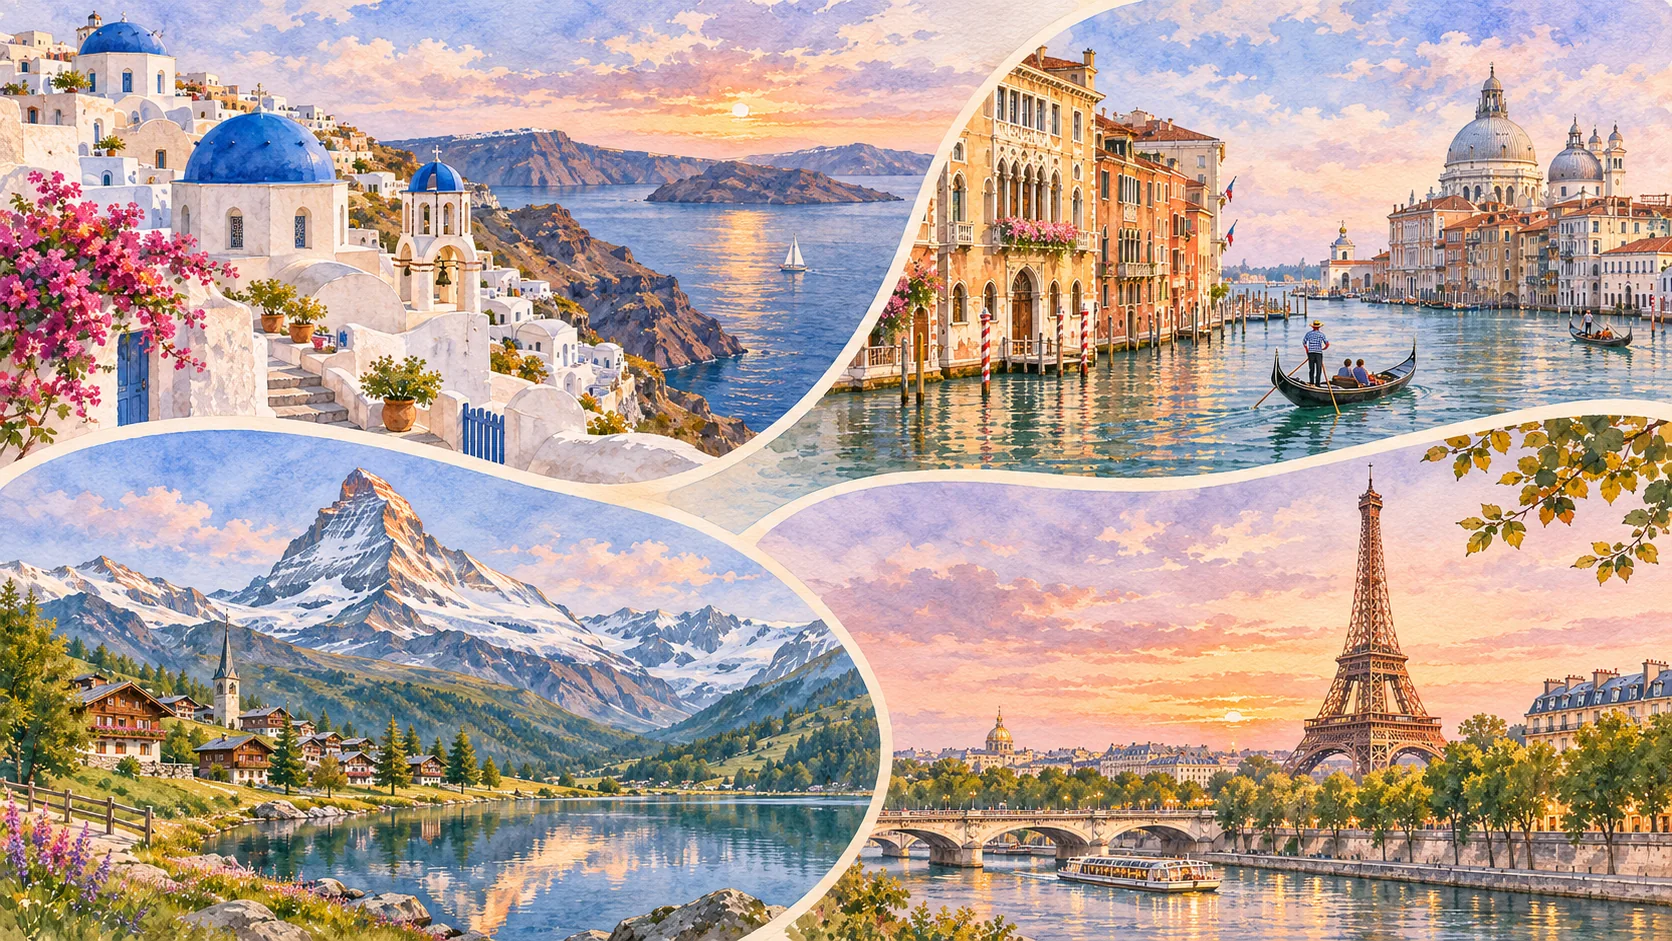
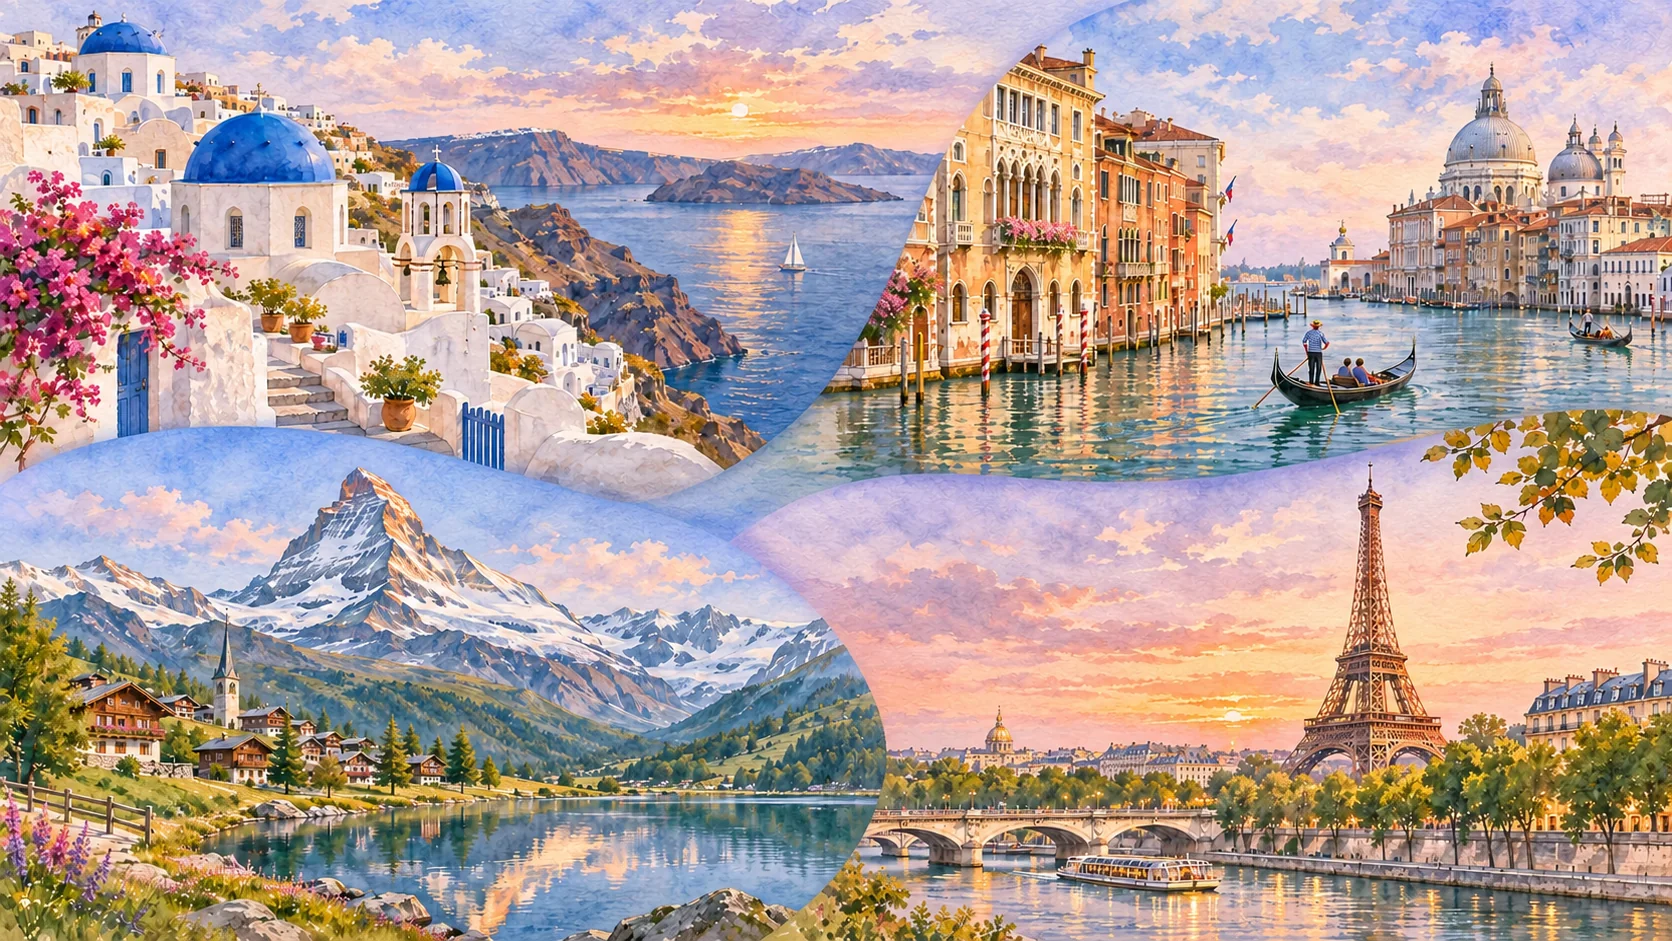
Soften boundaries in the seven homepage regional hero images (#2066)

diff --git a/assets/js/top.js b/assets/js/top.js
@@ -70,13 +70,13 @@ let themeSets = {};
 // Homepage-only regional montages built from existing approved Country images.
 // First entry is the dominant center; the following four appear around it.
 const heroFiles = [
-  { id: 'asia', labelJa: 'アジア', labelEn: 'ASIA', description: '日本・富士山、インド・タージ・マハル、ベトナム・ハロン湾、ヨルダン・ペトラ', image: 'assets/images/top/regions/top-asia.webp?v=20261101-four-scenes-1' },
-  { id: 'europe', labelJa: 'ヨーロッパ', labelEn: 'EUROPE', description: 'ギリシャ・サントリーニ、イタリア・ヴェネツィア、スイス・アルプス、フランス・パリ', image: 'assets/images/top/regions/top-europe.webp?v=20261101-four-scenes-1' },
-  { id: 'africa', labelJa: 'アフリカ', labelEn: 'AFRICA', description: 'アフリカのサバンナ、ビクトリアの滝、ナミビアの砂丘、マダガスカルのバオバブ', image: 'assets/images/top/regions/top-africa.webp?v=20261101-four-scenes-1' },
-  { id: 'north-america', labelJa: '北米', labelEn: 'NORTH AMERICA', description: 'アメリカ・グランドキャニオン、ニューヨーク、カナダ・ロッキー山脈、ナイアガラの滝', image: 'assets/images/top/regions/top-north-america.webp?v=20261101-four-scenes-1' },
-  { id: 'south-america', labelJa: '南米', labelEn: 'SOUTH AMERICA', description: 'ペルー・マチュピチュ、イグアスの滝、ボリビア・ウユニ塩湖、ブラジル・リオデジャネイロ', image: 'assets/images/top/regions/top-south-america.webp?v=20261101-four-scenes-1' },
-  { id: 'oceania', labelJa: 'オセアニア', labelEn: 'OCEANIA', description: 'オーストラリア・シドニー湾、ニュージーランド・フィヨルド、南太平洋の島々、ウルル', image: 'assets/images/top/regions/top-oceania.webp?v=20261101-four-scenes-1' },
-  { id: 'antarctica', labelJa: '南極', labelEn: 'ANTARCTICA', description: '南極のペンギン、氷河、氷山、雪山', image: 'assets/images/top/regions/top-antarctica.webp?v=20261101-four-scenes-1' }
+  { id: 'asia', labelJa: 'アジア', labelEn: 'ASIA', description: '日本・富士山、インド・タージ・マハル、ベトナム・ハロン湾、ヨルダン・ペトラ', image: 'assets/images/top/regions/top-asia.webp?v=20261103-soft-boundaries-1' },
+  { id: 'europe', labelJa: 'ヨーロッパ', labelEn: 'EUROPE', description: 'ギリシャ・サントリーニ、イタリア・ヴェネツィア、スイス・アルプス、フランス・パリ', image: 'assets/images/top/regions/top-europe.webp?v=20261103-soft-boundaries-1' },
+  { id: 'africa', labelJa: 'アフリカ', labelEn: 'AFRICA', description: 'アフリカのサバンナ、ビクトリアの滝、ナミビアの砂丘、マダガスカルのバオバブ', image: 'assets/images/top/regions/top-africa.webp?v=20261103-soft-boundaries-1' },
+  { id: 'north-america', labelJa: '北米', labelEn: 'NORTH AMERICA', description: 'アメリカ・グランドキャニオン、ニューヨーク、カナダ・ロッキー山脈、ナイアガラの滝', image: 'assets/images/top/regions/top-north-america.webp?v=20261103-soft-boundaries-1' },
+  { id: 'south-america', labelJa: '南米', labelEn: 'SOUTH AMERICA', description: 'ペルー・マチュピチュ、イグアスの滝、ボリビア・ウユニ塩湖、ブラジル・リオデジャネイロ', image: 'assets/images/top/regions/top-south-america.webp?v=20261103-soft-boundaries-1' },
+  { id: 'oceania', labelJa: 'オセアニア', labelEn: 'OCEANIA', description: 'オーストラリア・シドニー湾、ニュージーランド・フィヨルド、南太平洋の島々、ウルル', image: 'assets/images/top/regions/top-oceania.webp?v=20261103-soft-boundaries-1' },
+  { id: 'antarctica', labelJa: '南極', labelEn: 'ANTARCTICA', description: '南極のペンギン、氷河、氷山、雪山', image: 'assets/images/top/regions/top-antarctica.webp?v=20261103-soft-boundaries-1' }
 ];
 
 {

diff --git a/index.html b/index.html
@@ -66,7 +66,7 @@
     
   </style>
   <script src="assets/js/atlas-order.js?v=20261029-1" defer></script>
-  <script src="assets/js/top.js?v=20261102-lazy-images-1" defer></script>
+  <script src="assets/js/top.js?v=20261103-soft-boundaries-1" defer></script>
   <script src="assets/js/map-regions.js?v=20261102-deferred-map-1" defer></script>
   <script src="assets/js/header-scroll.js?v=20260826-2241" defer></script>
 </head>
@@ -103,7 +103,7 @@
 
       <div class="hero-visual" id="hero-visual">
         <div class="hero-collage is-ready" id="hero-collage" role="img" data-region="asia" aria-label="アジアの旅の風景をめぐる水彩コラージュ">
-          <img class="hero-collage__image" src="assets/images/top/regions/top-asia.webp?v=20261101-four-scenes-1" alt="" fetchpriority="high" decoding="async">
+          <img class="hero-collage__image" src="assets/images/top/regions/top-asia.webp?v=20261103-soft-boundaries-1" alt="" fetchpriority="high" decoding="async">
           <span class="hero-collage__region" aria-hidden="true">ASIA</span>
         </div>
         <button class="hero-arrow hero-arrow--prev" type="button" data-hero-step="-1" aria-label="前のビジュアル">‹</button>
